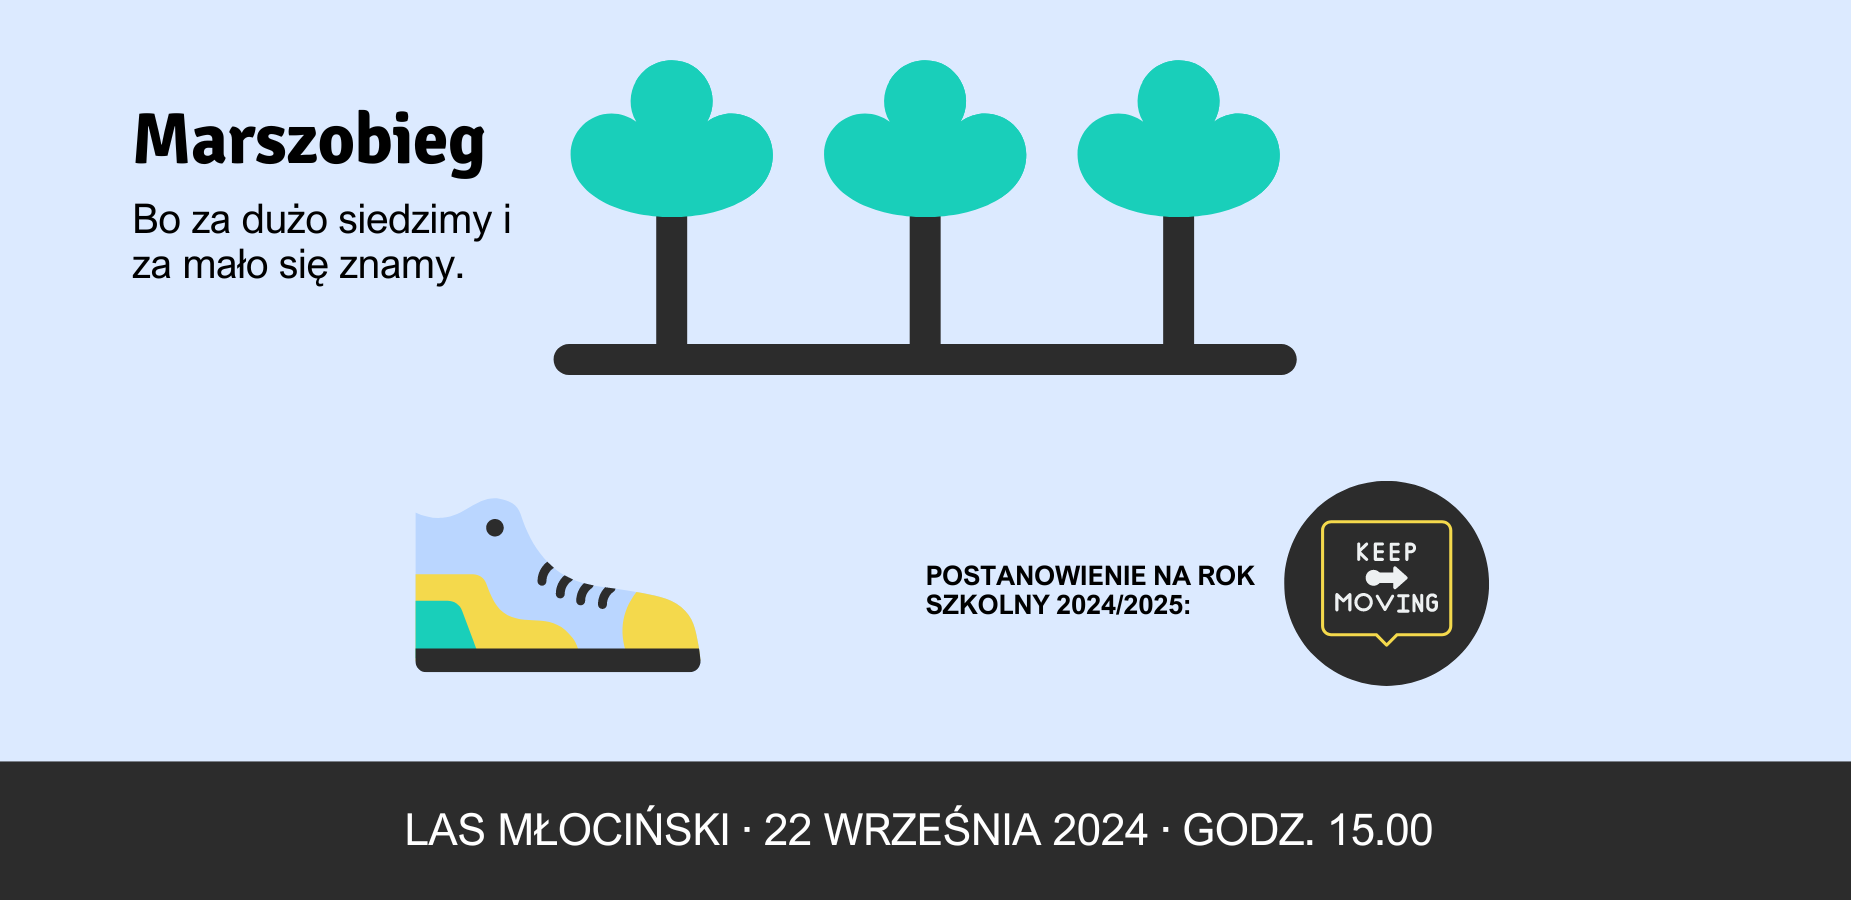
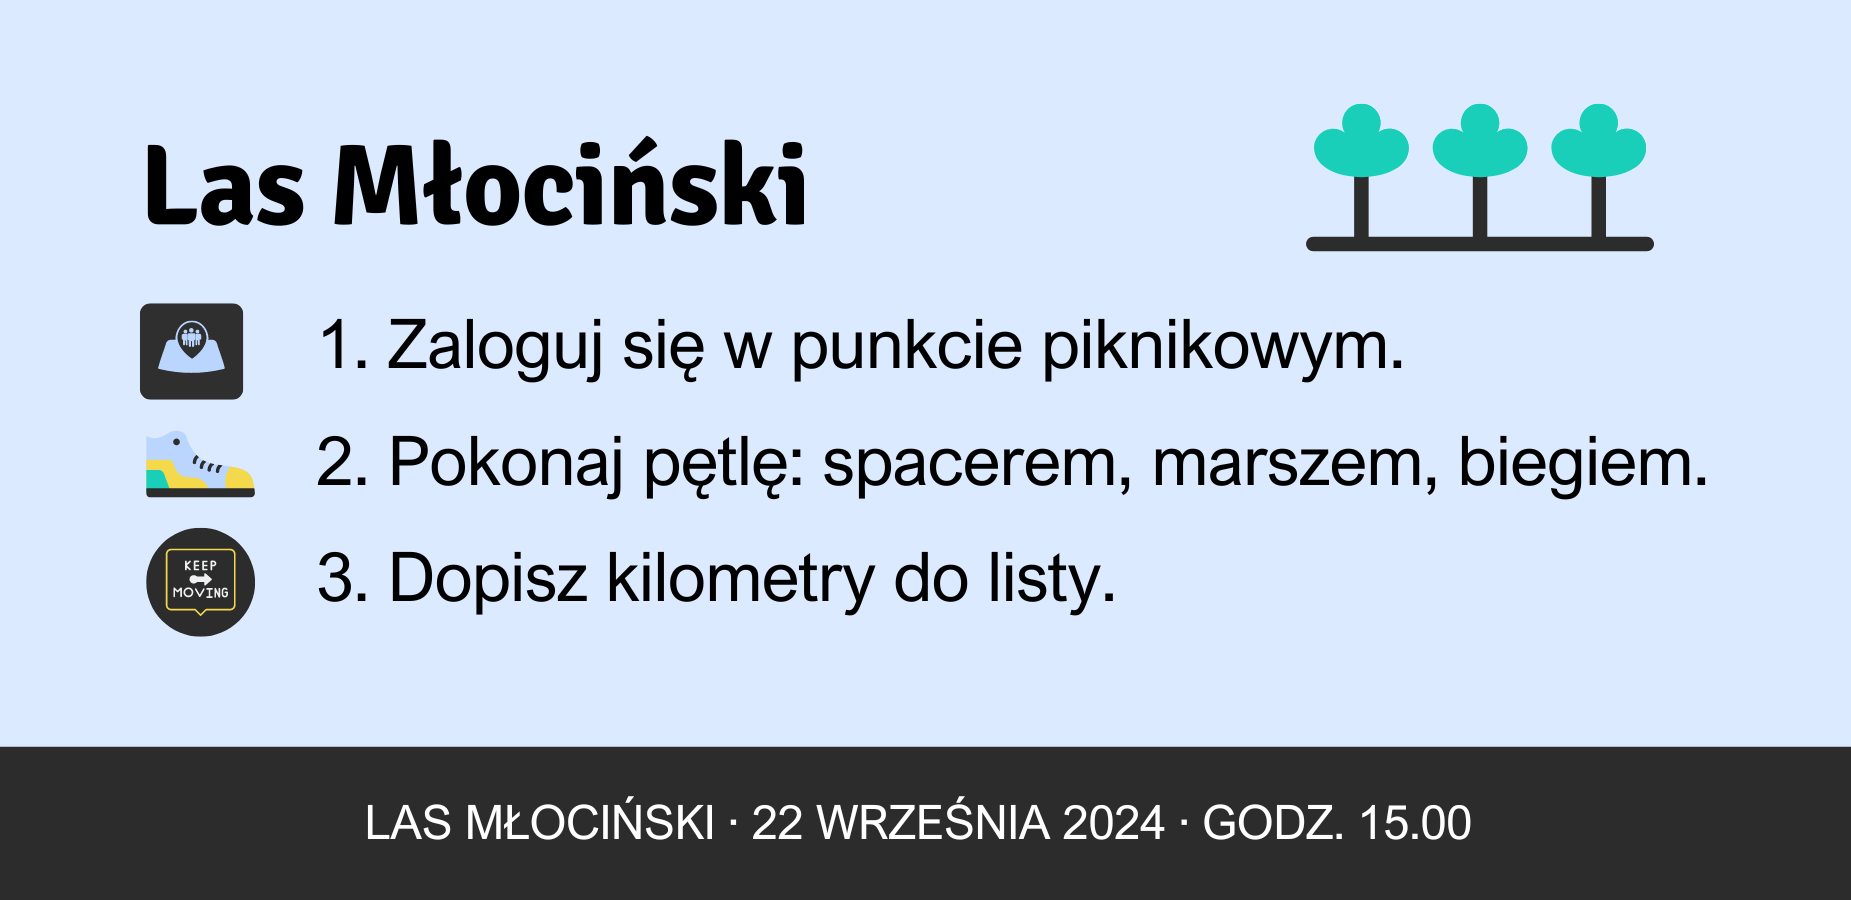
newsletter online, small improvements

Changed region(s): [[0.0616, 0.0622, 0.9238, 0.7778], [0.0, 0.8089, 1.0, 0.9644]]

diff --git a/themes/hugoplate/layouts/newsletter/single.html b/themes/hugoplate/layouts/newsletter/single.html
@@ -1,0 +1,12 @@
+{{ define "main" }}
+<section class="section-sm">
+  <div class="container">
+    <div class="row justify-center">
+      <div class="lg:col-10">
+        <div class="content">
+          {{ .Content | emojify }}
+        </div>
+    </div>
+  </div>
+</section>
+{{ end }}

diff --git a/content/english/newsletter/wrzesien-2024.md b/content/english/newsletter/wrzesien-2024.md
@@ -1,0 +1,48 @@
+---
+title: "10x10: Wrzesień"
+# meta title
+meta_title: ""
+# meta description
+description: "Za dużo siedzimy, za mało się znamy, marszobieg, ruch transformuje mózg"
+# save as draft
+draft: false
+---
+
+## 10x10: Wrzesień, za dużo siedzimy, za mało się znamy, marszobieg, ruch transformuje mózg
+
+{{< image src="images/idea-marszobieg.png" caption="" alt="alter-text" height="" width="" position="center" command="fill" option="q100" class="img-fluid" title="image title"  webp="false">}}
+
+
+### Historia ode mnie: marszobieg 
+
+
+Historia tego pomysłu zaczęła się od intrygującego zaproszenia: Marsz / Bieg Dziękczynny za Życie, 24H, Puszcza Kampinoska.
+
+Sam pomysł, by przez 24 godziny koncentrować się na wdzięczności, wyrażając ją poprzez ruch na łonie natury, był naprawdę poruszający.
+
+Podczas Marszobiegu każdy uczestnik mógł dostosować swoje tempo, zatrzymać się na rozmowę albo po prostu skupić na własnych myślach. Możliwość uczestniczenia w tym wydarzeniu **wspólnie z rodziną**, pokonywania kilometrów w tym duchu, była szczególna.
+
+Dziś za dużo siedzimy (w szkole, w pracy, w domu) i za mało się znamy. Aby dobrze współpracować jako zespół, musimy się spotykać także poza wywiadówkami.
+
+W grupie **10 osób** przetestowaliśmy pomysł marszobiegu 1 września na Kępie Potockiej, gdzie wspólnie pokonaliśmy pętlę 5 km. To w sumie **50 km**!
+
+Przez kolejne 10 miesięcy chcemy wspólnie pokonać **jak najwięcej kilometrów**. 
+
+### Propozycje do wykorzystania
+
+#### Dołącz do nas 
+
+<a href="/marszobieg/las-mlocinski-22-wrzesnia">
+  {{< image src="images/invite-marszobieg-22-wrzesien.png" caption="" alt="alter-text" height="" width="" position="center" command="fill" option="q100" class="img-fluid" title="image title"  webp="false">}}
+</a>
+
+#### Lub 
+<a href="/marszobieg/diy">
+    {{< image src="images/diy-marszobieg.png" caption="" alt="alter-text" height="" width="" position="center" command="fill" option="q100" class="img-fluid" title="image title"  webp="false" >}}
+</a>
+
+### Inspiracje od innych: ruch transformuje mózg
+<a href="/bff/wendy-suzuki">
+    {{< image src="images/ref-exercise-neuro.png" caption="" alt="alter-text" height="" width="" position="center" command="fill" option="q100" class="img-fluid" title="image title"  webp="false" >}}
+</a>
+

diff --git a/content/english/pages/about.md b/content/english/pages/about.md
@@ -25,12 +25,12 @@ Bo działając na rzecz społeczności, lepiej się w niej poczujemy, zwłaszcza
 
 > Kiedyś nauczyciele i rodzice uczyli według standardowych wzorców, teraz ważna staje się autonomia nauczycieli i uczniów. Chodzi o to, byśmy uczyli się samodzielnie rozwijać, myśleć krytycznie, rozwiązywać problemy i tworzyć coś nowego. 
 
-Do działania skłoniła mnie sytuacja Szkoły Podstawowej 396 w Warszawie. Po dwóch latach szkoła znalazła się w trudnej sytuacji a miasto uruchomiło program ratunkowy Szkoła od podstaw. To ważny krok, ale prawdziwa zmiana zależy od nas. Podstawą szkoły jest jej społeczność. Jeśli chcemy nowej jakości, musimy próbować nowych rozwiązań.
+Do działania skłoniła mnie sytuacja Szkoły Podstawowej 396 w Warszawie. Po dwóch latach szkoła znalazła się w trudnej sytuacji a miasto uruchomiło program ratunkowy Szkoła od podstaw. To ważny krok, ale prawdziwa zmiana zależy od nas. Podstawą szkoły jest jej społeczność. Jeśli chcemy nowej jakości, musimy próbować nowych rzeczy.
 
 > Nie zawsze zdobywamy to, czego chcemy, ale próbując odnajdujemy to, czego potrzebujemy.
 
 ## Podziękowania
 
-Dziękuję wszystkim, z którymi mogłem rozmawiać i wymieniać pomysły. Szczególne podziękowania dla Ani Ślubowskiej i grupy znajomych rodziców z SP 396, z którymi współpracuję.
+Dziękuję wszystkim, z którymi mogłem rozmawiać i wymieniać pomysły. Szczególne podziękowania dla Ani Ślubowskiej, znajomych rodziców oraz nauczycieli z SP 396.
 
 Stoigniew Sztank

diff --git a/content/english/marszobieg/_index.md b/content/english/marszobieg/_index.md
@@ -8,17 +8,14 @@ description: "Dlaczego? Bo za dużo siedzimy (w szkole, w pracy, w domu) i za ma
 draft: false
 ---
 
-## Startujemy Marszobiegiem!
+## Marszobieg
 
-* W grupie **10 osób** przetestowaliśmy pomysł marszobiegu 1 września na Kępie Potockiej, gdzie wspólnie pokonaliśmy pętlę 5 km. To w sumie **50 km**! 
-* Przez kolejne **10 miesięcy** chcemy wspólnie pokonać **jak najwięcej kilometrów**.
-
-### Dołącz
+### Dołącz do nas
 <a href="/marszobieg/las-mlocinski-22-wrzesnia">
   {{< image src="images/invite-marszobieg-22-wrzesien.png" caption="" alt="alter-text" height="" width="" position="center" command="fill" option="q100" class="img-fluid" title="image title"  webp="false">}}
 </a>
 
-### DIY 
+### Lub 
 <a href="/marszobieg/diy">
-    {{< image src="images/invite-marszobieg-DIY.png" caption="" alt="alter-text" height="" width="" position="center" command="fill" option="q100" class="img-fluid" title="image title"  webp="false" >}}
+    {{< image src="images/diy-marszobieg.png" caption="" alt="alter-text" height="" width="" position="center" command="fill" option="q100" class="img-fluid" title="image title"  webp="false" >}}
 </a>

diff --git a/content/english/marszobieg/las-mlocinski-22-wrzesnia.md b/content/english/marszobieg/las-mlocinski-22-wrzesnia.md
@@ -14,7 +14,7 @@ draft: false
 </a>
 
 * Dołącz w dowolnym momencie między 15:00 a 18:00. 
-* Zaloguj się w punkcie piknikowym: na terenie pomiędzy placem zabaw a startem tras (lokalizacja: [pinezka](https://maps.app.goo.gl/fpuqJagwfSYKg3aG9)).
-* Pokonaj oznaczoną pętlę 2,5 km lub 3,5 km tyle razy, ile chcesz, dostosowując tempo (spacerem, marszem lub biegiem).
-* Dopisz swoje kilometry do wspólnej listy.
-* Weź ze sobą coś do picia i przekąskę.
+* Zaloguj się w punkcie piknikowym: na terenie pomiędzy placem zabaw a startem tras, lokalizacja: [pinezka](https://maps.app.goo.gl/fpuqJagwfSYKg3aG9), między godz. 15:00 a 18:00.
+* Pokonaj oznaczoną pętlę 2,5 km lub 3,5 km tyle razy, ile chcesz: spacerem, marszem lub biegiem.
+* Dopisz kilometry do wspólnej listy.
+

diff --git a/content/english/marszobieg/diy.md b/content/english/marszobieg/diy.md
@@ -8,7 +8,7 @@ description: "Dlaczego? Bo za dużo siedzimy (w szkole, w pracy, w domu) i za ma
 draft: false
 ---
 
-{{< image src="images/invite-marszobieg-DIY.png" caption="" alt="alter-text" height="" width="" position="center" command="fill" option="q100" class="img-fluid" title="image title"  webp="false">}}
+{{< image src="images/diy-marszobieg.png" caption="" alt="alter-text" height="" width="" position="center" command="fill" option="q100" class="img-fluid" title="image title"  webp="false">}}
 
 ## Za dużo siedzimy i za mało się znamy. Jak to zmienić?
 

diff --git a/content/english/newsletter/_index.md b/content/english/newsletter/_index.md
@@ -7,5 +7,4 @@ draft: false
 
 **10 działań na 10 miesięcy**: Co miesiąc podzielę się z Tobą pomysłami, które możesz wykorzystać, aby działać na rzecz swojej społeczności szkolnej. Dostaniesz ode mnie inspiracje i zaproszenia.
 
-**Pierwszy numer: Wrzesień - Startujemy Marszobiegiem!**
-- W tym miesiącu opowiem Ci o pierwszym z dziesięciu działań: Marszobiegu
+**[10x10: Wrzesień, za dużo siedzimy, za mało się znamy, marszobieg, ruch transformuje mózg](/newsletter/wrzesien-2024)**

diff --git a/content/english/pages/groups.md b/content/english/pages/groups.md
@@ -10,7 +10,7 @@ draft: false
 ## Masz dość ciągłych notyfikacji?
 Chcę spróbować wykorzystać grupy społecznościowe w inny sposób – bez zbędnych rozproszeń, w stylu [JOMO](/jomo). Jeśli chcesz dołączyć do eksperymentu, zapraszam.
 
-## Zasady eksperymentu
+## Zasady
 
 ### 1. Wysyłam w określonym czasie
 * Piątek 16:00 – 19:00
